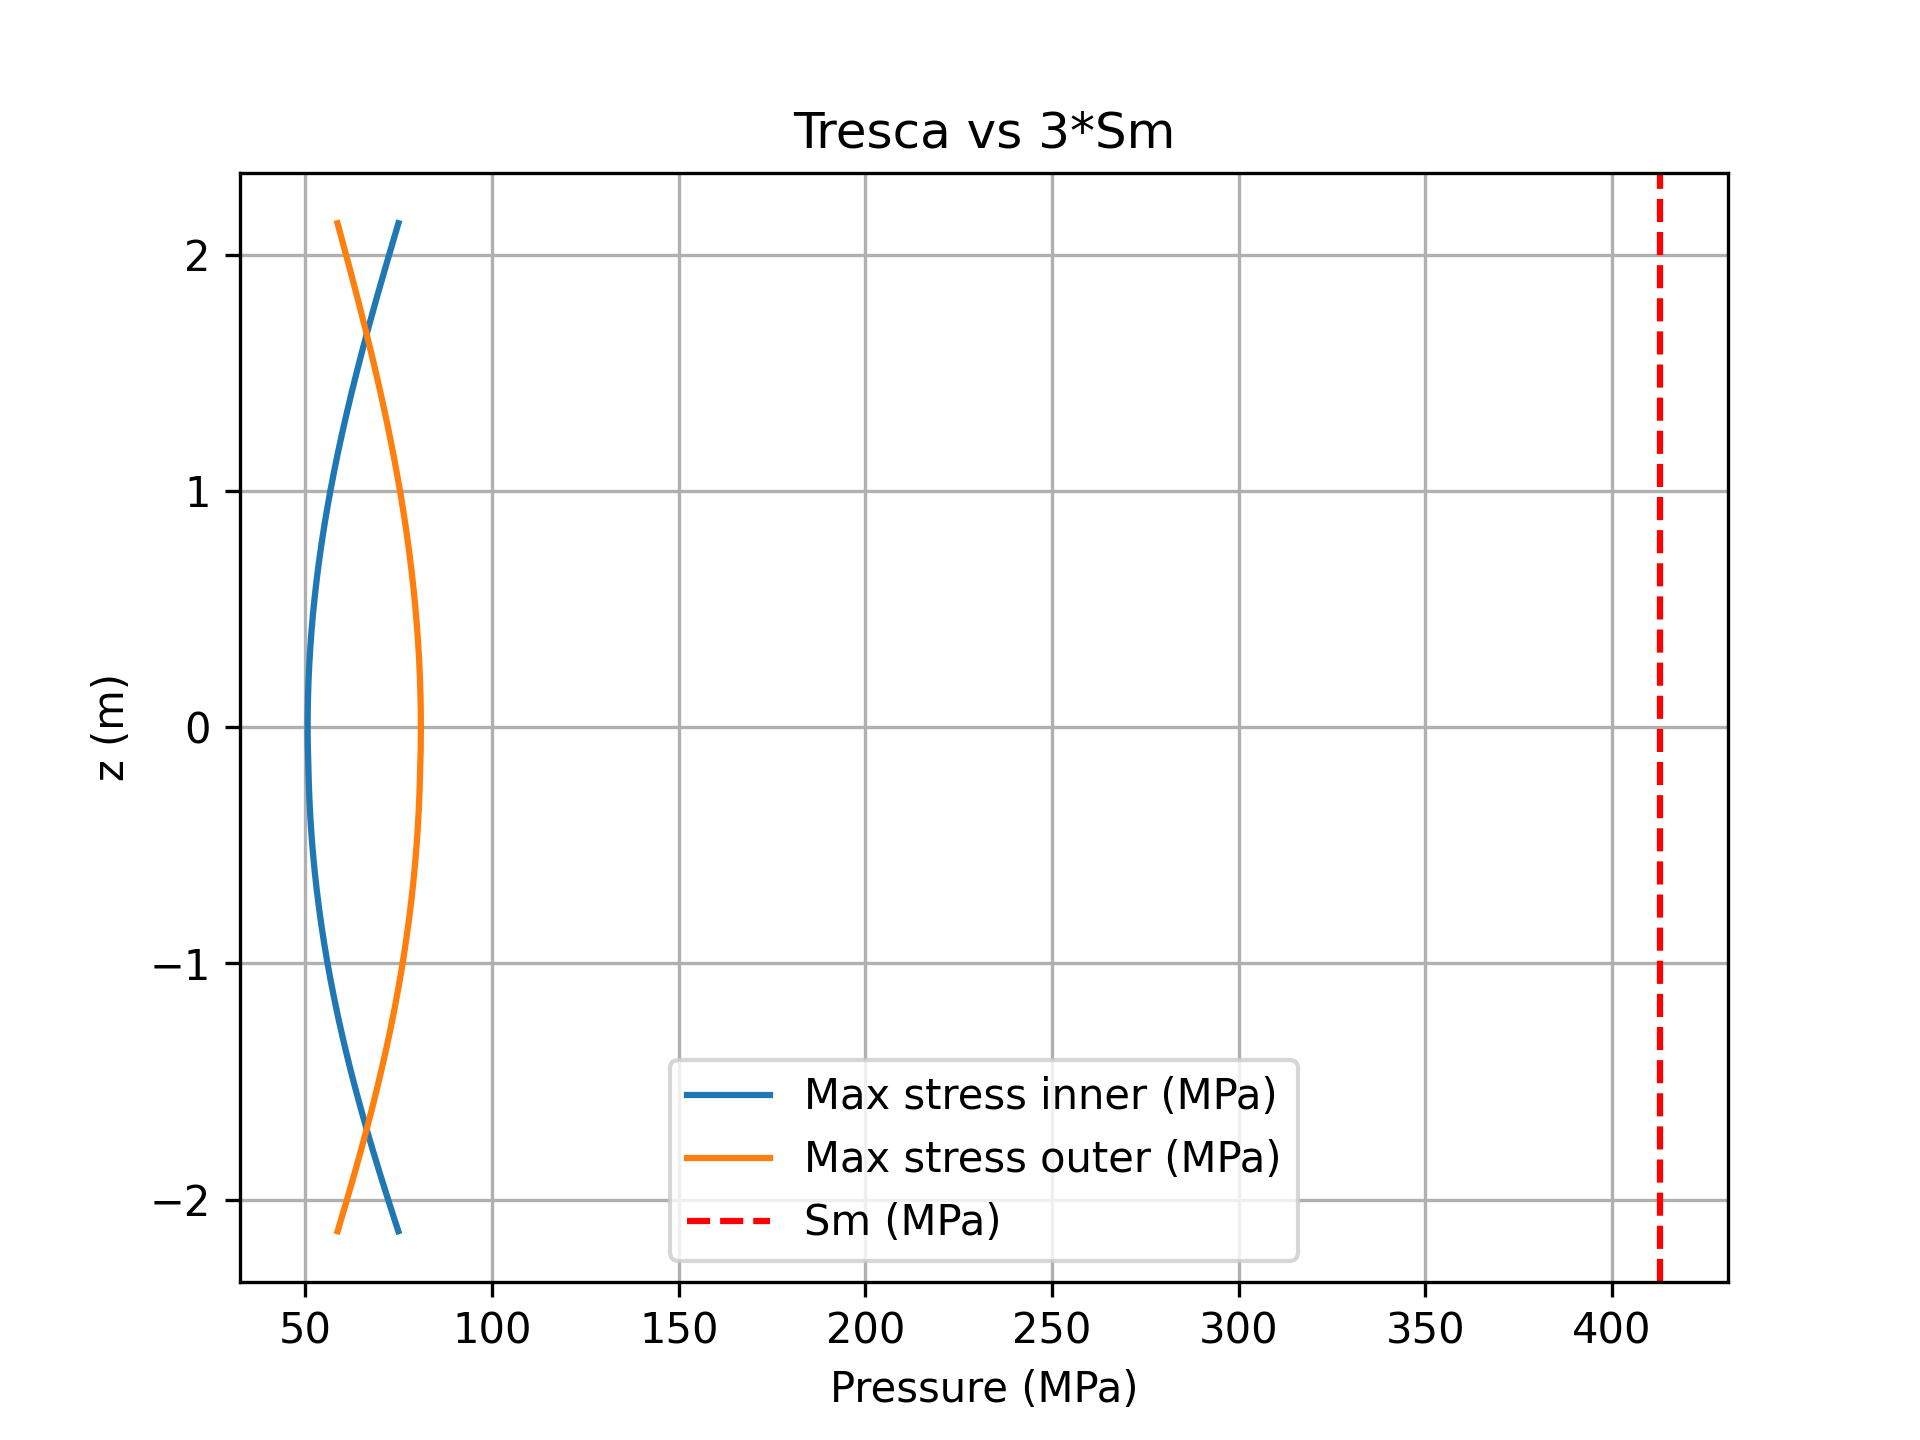
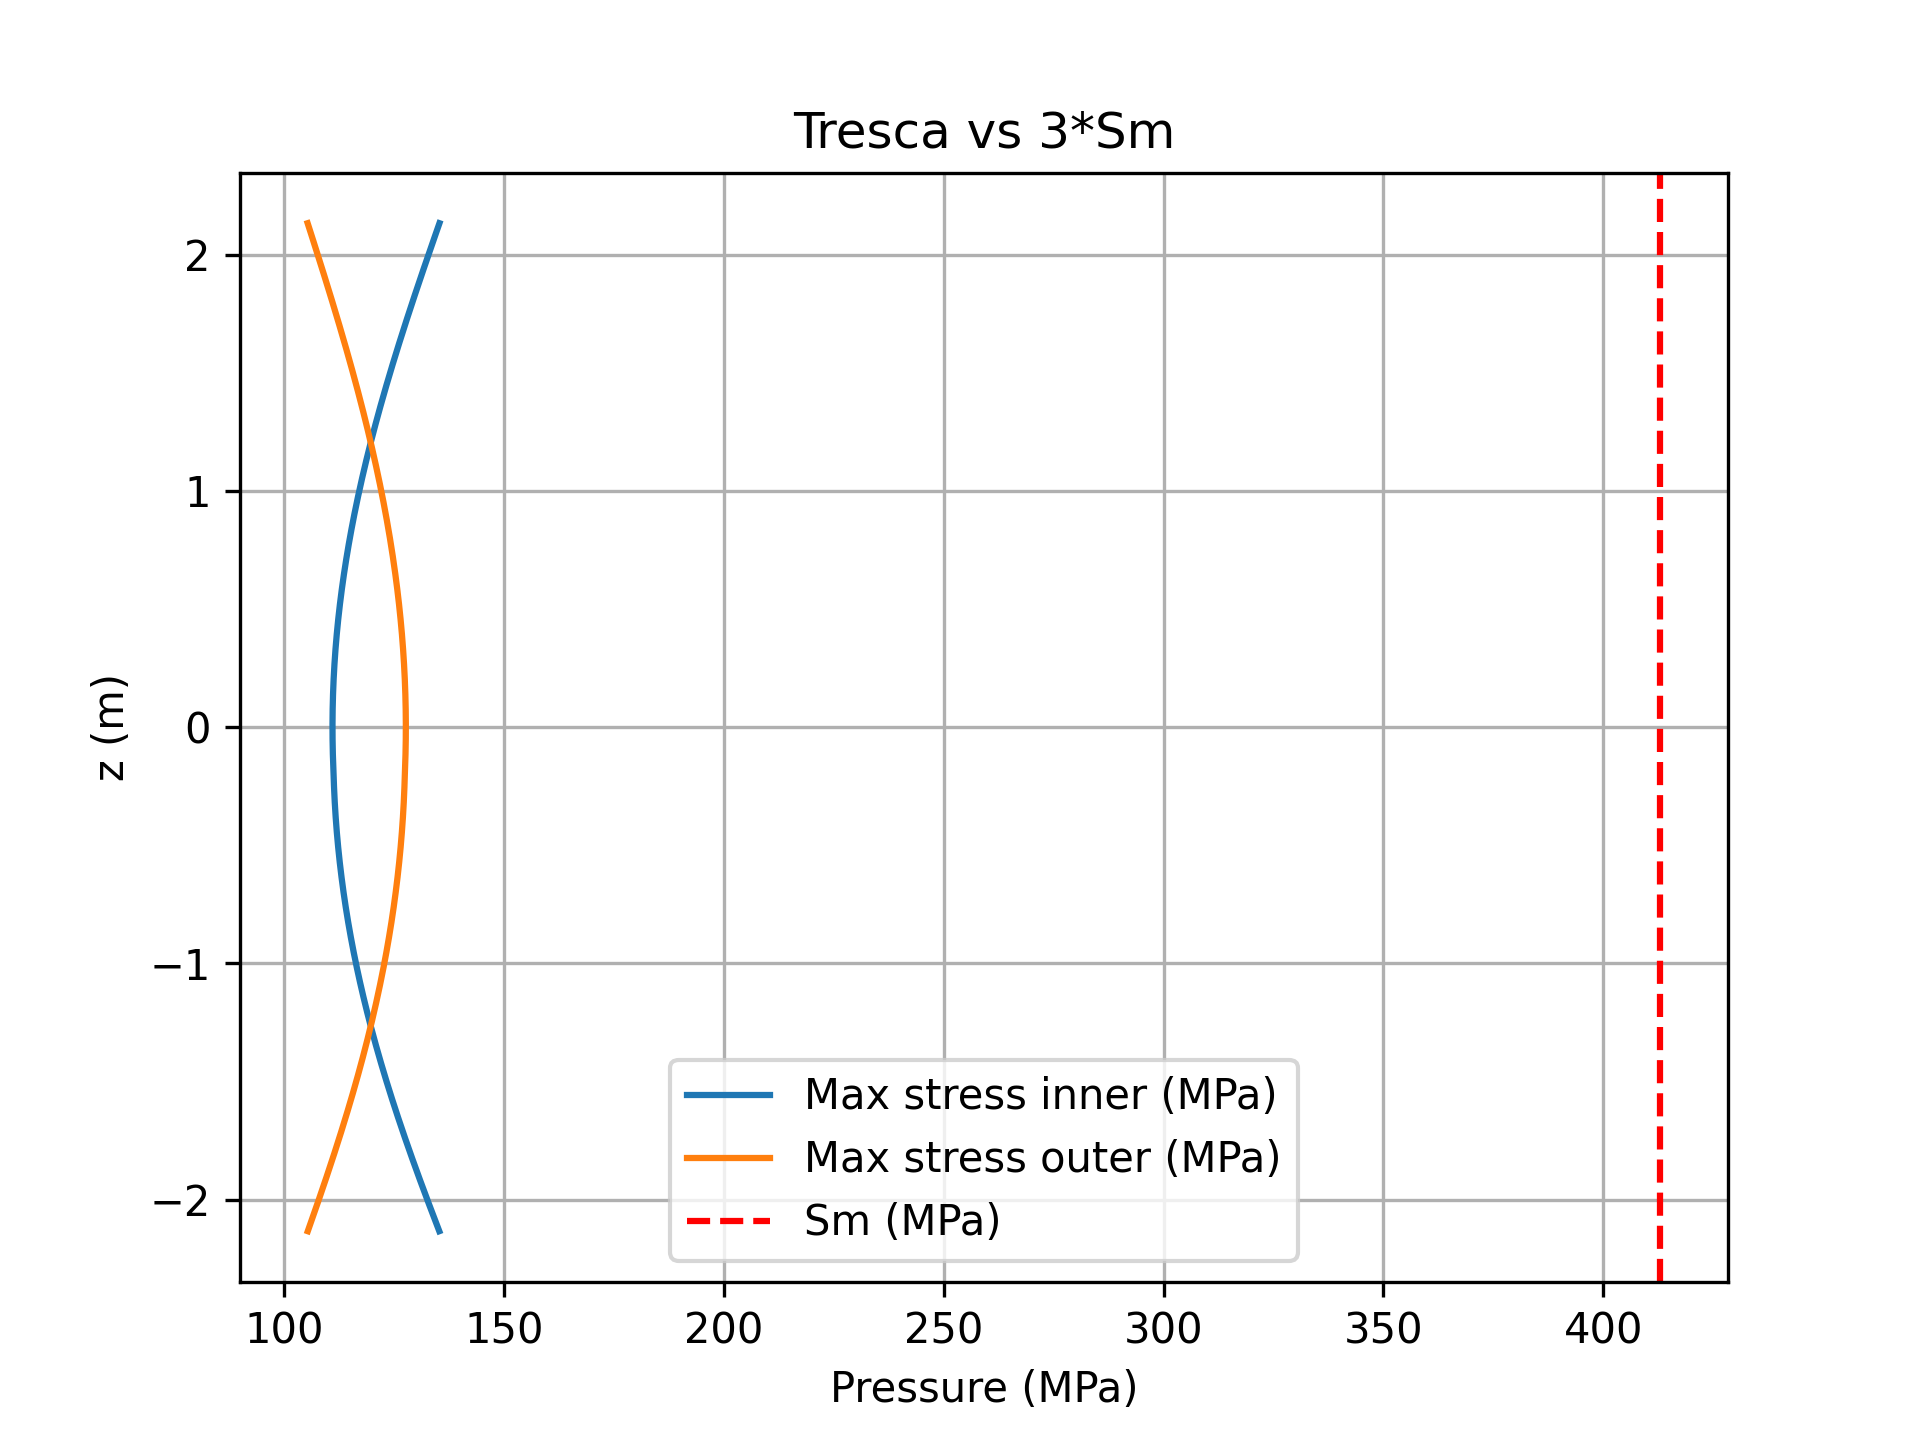
corretto

diff --git a/assignment3/script.py b/assignment3/script.py
@@ -172,7 +172,6 @@ def main():
     D_in = D_out_clad - 2 * thickness    # m, diametro interno guaina
     r_avg = (D_out_clad + D_in) / 4          # raggio medio = (r_in + r_out)/2
     p_sys = inputs["p_sys"]              # Pa, pressione di sistema
-    p_int_gas = 7e6                        # Pa, pressione massima ammissibile del gas di riempimento (fill-gas)
     D_fuel = inputs["D_pellet"]            # m, diametro del pellet di combustibile
     H_active = inputs["H_active"]          # m, altezza attiva della barra
     
@@ -200,7 +199,7 @@ def main():
     p_i = internal_pressure_analysis(sigma_y, r_avg, thickness)  # Pa
 
     # 3) STRESS ANALYSIS
-    sigma_max_in, sigma_max_out, sigma_in_diz, sigma_out_diz = stress_analysis(D_in/2, D_out_clad/2, p_int_gas, p_sys)  # Pa
+    sigma_max_in, sigma_max_out, sigma_in_diz, sigma_out_diz = stress_analysis(D_in/2, D_out_clad/2, p_i, p_sys)  # Pa
     P_in = sigma_max_in / 1e6     # MPa
     P_out = sigma_max_out / 1e6    # MPa
     # componenti meccaniche in MPa (stress_analysis lavora in Pa: p_i, p_sys sono in Pa)
